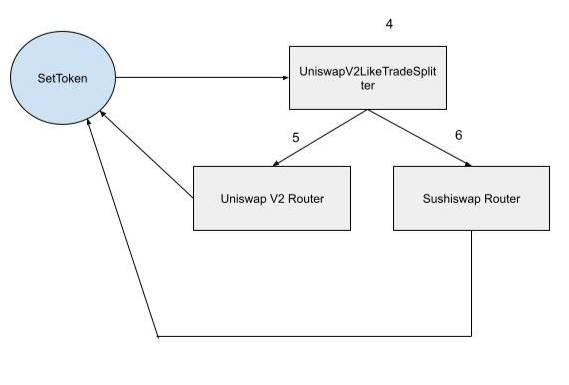
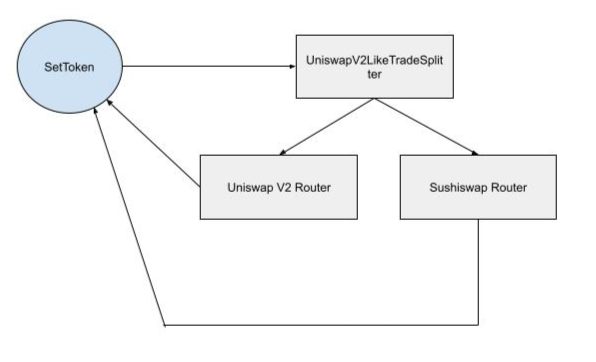
add token flow diagram

diff --git a/STIPS/STIP-002.md b/STIPS/STIP-002.md
@@ -139,6 +139,12 @@ This feature will require one contract that conforms to IExchangeAdapter, one th
 6. UniswapV2LikeTradeSplitter calculates the optimal split between Uniswap and Sushiswap, and execute the trades, directing the outputs to the set token
 7. If the sum of the Uniswap and Sushiswap trade output are too low, then revert
 
+## Token Flows
+![flow diagram](../assets/tokenFlow.png)
+1. SetToken sends input tokens to UniswapV2LikeTradeSplitter
+2. UniswapV2LikeTradeSplitter sends input tokens to Uniswap and Sushiswap
+3. Uniswap and Sushiswap sends output tokens to SetToken
+
 ## Checkpoint 2
 **Reviewer**:
 Reviewer: []
